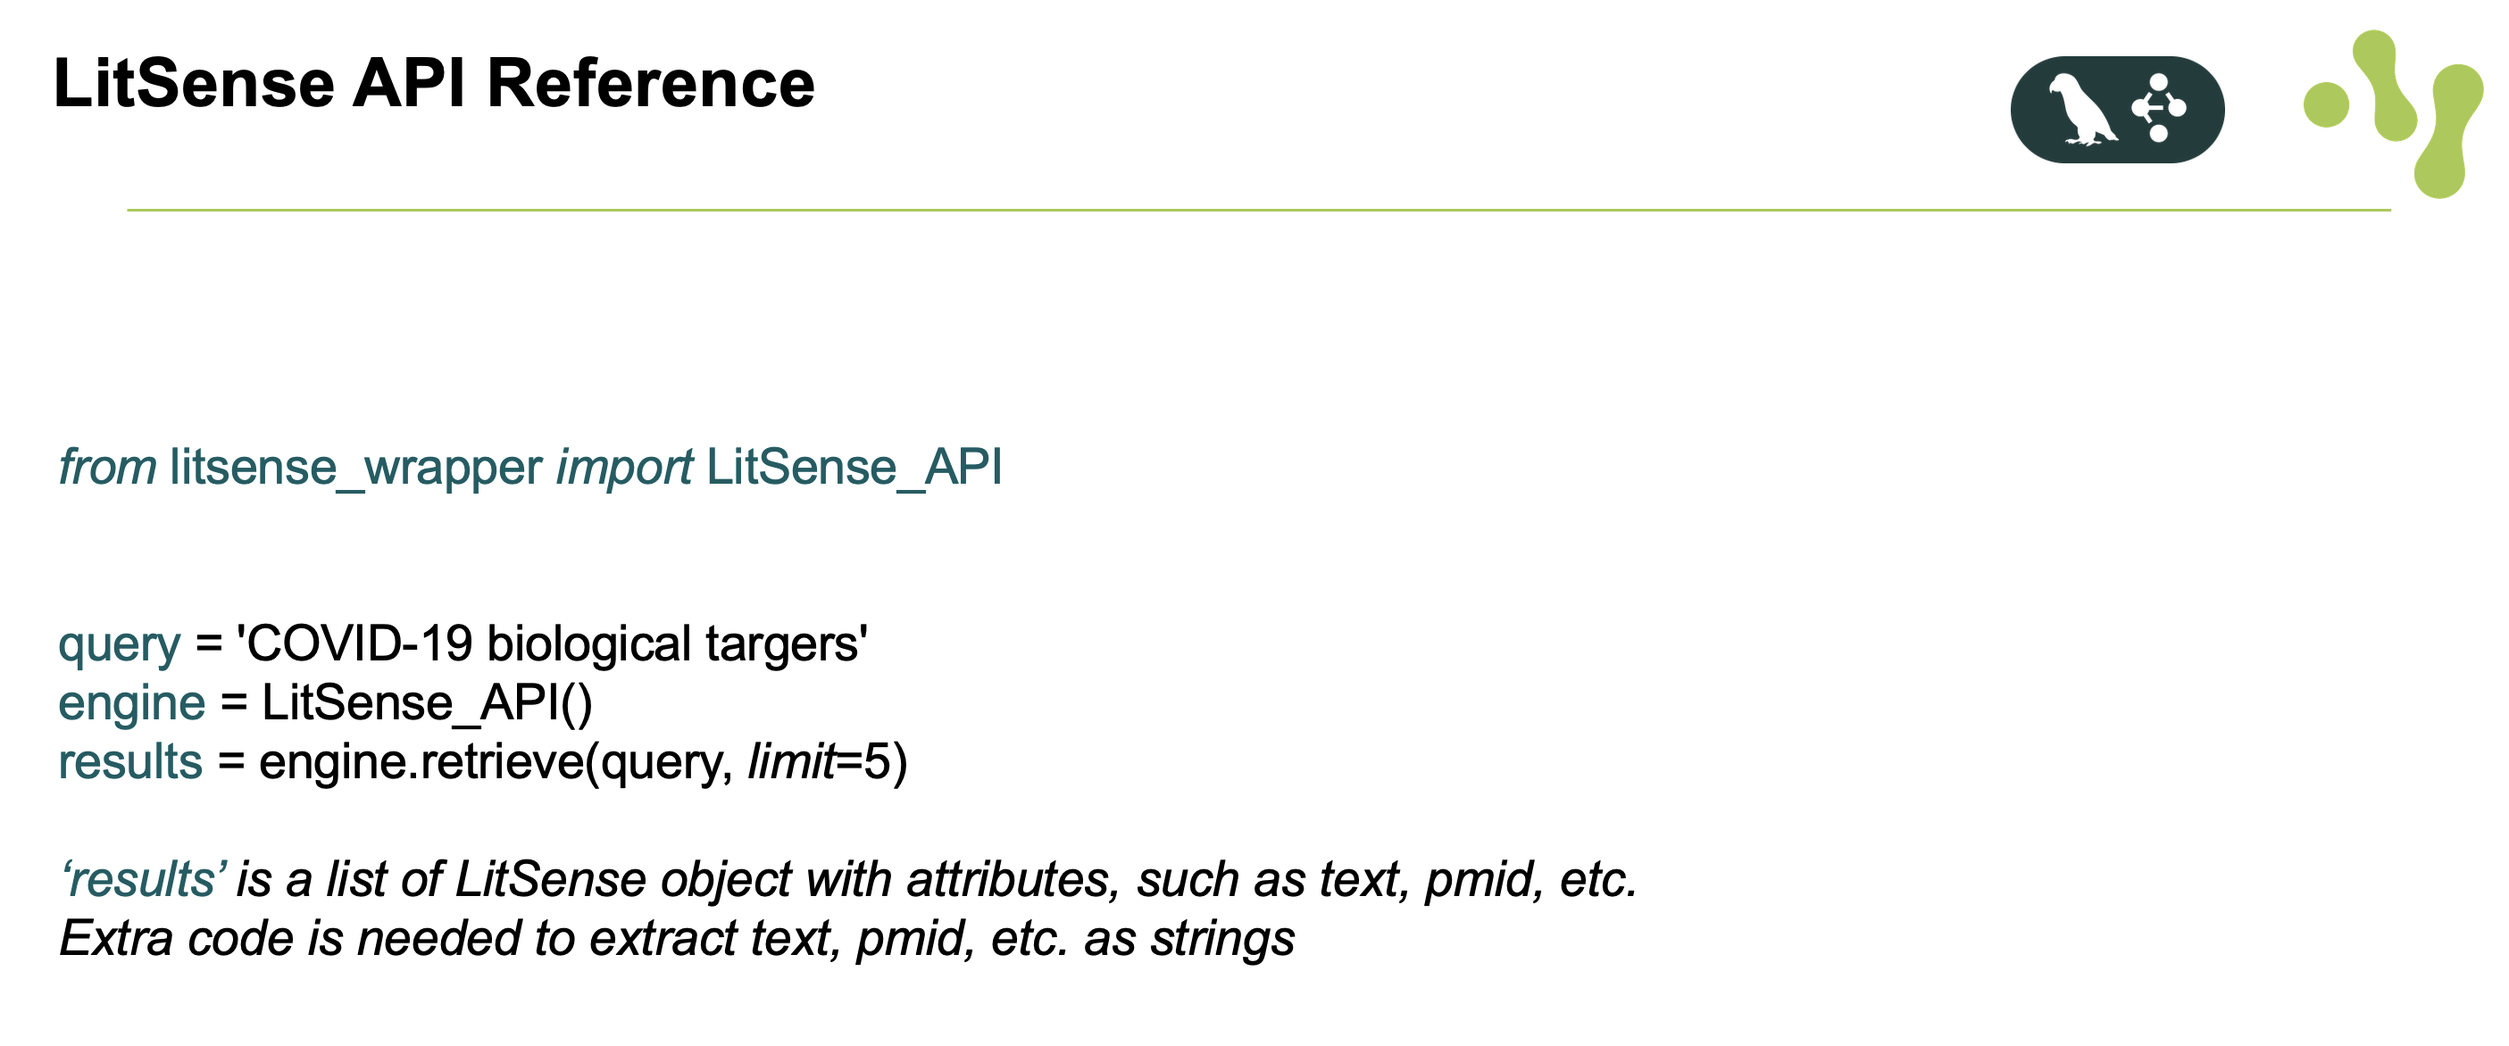
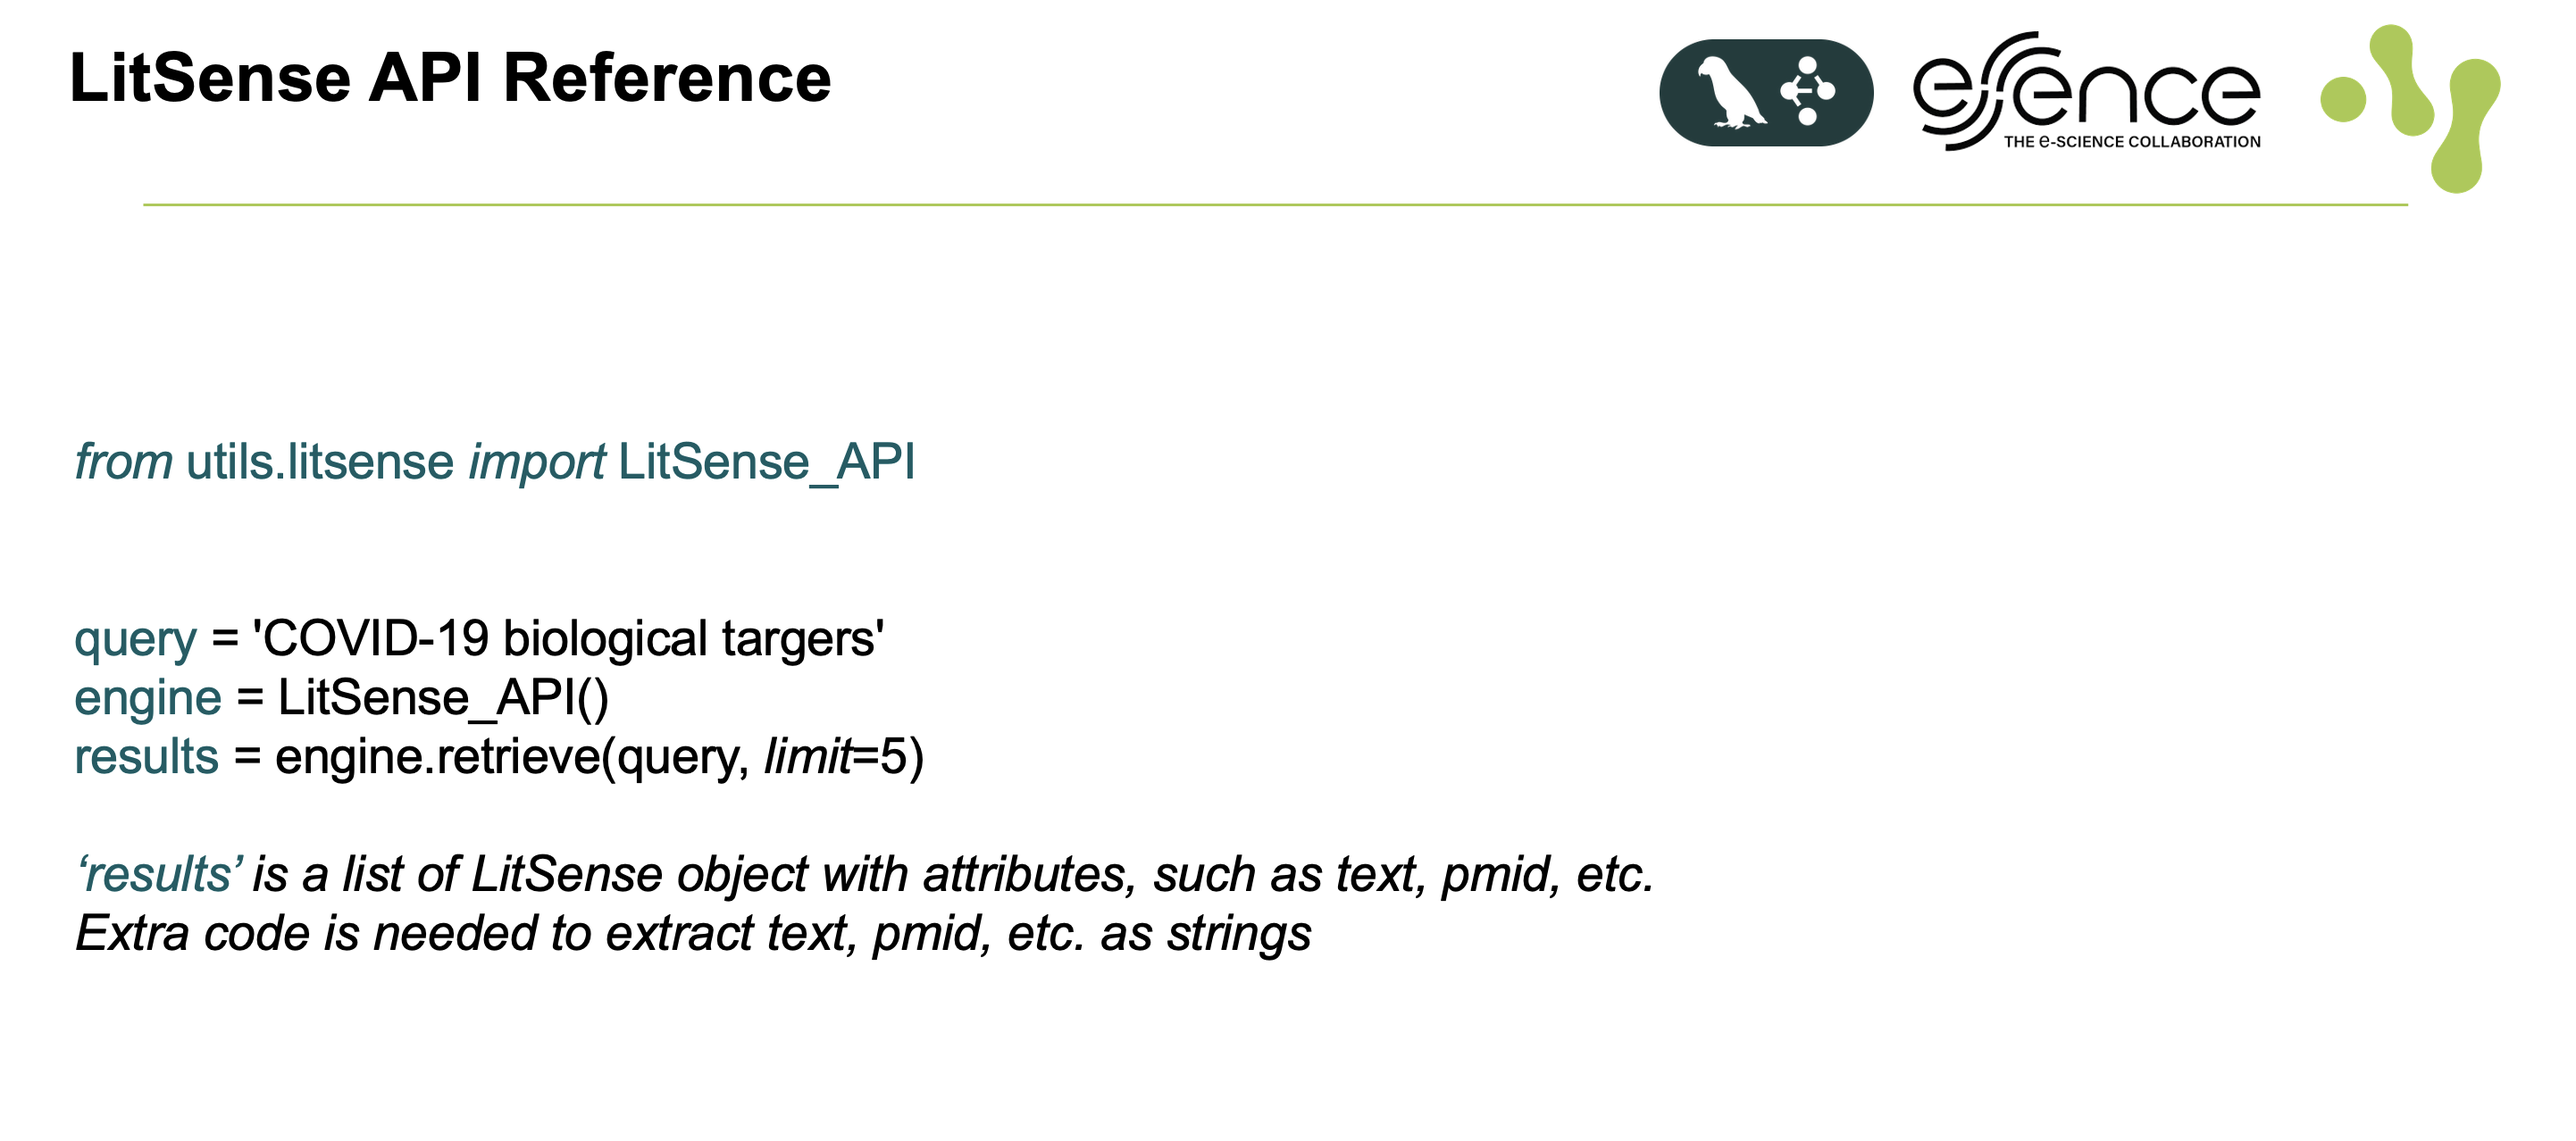
update excercise

diff --git a/Section_1_LangGraph/utils/litsense.py b/Section_1_LangGraph/utils/litsense.py
@@ -1,0 +1,110 @@
+import math
+import requests
+from dataclasses import dataclass
+from typing import Optional
+
+@dataclass
+class LitSenseObject:
+    """Dataclass for a single result from the LitSense API."""
+    text: str
+    score: float
+    annotations: list[str]
+    pmid: int
+    pmcid: str
+    section: str
+
+
+class LitSense_API:
+    """Python wrapper for the LitSense API."""
+    def __init__(
+        self,
+        base_url="https://www.ncbi.nlm.nih.gov/research/litsense2-api/api/",
+    ):
+        self.base_url = base_url
+
+
+    def retrieve(
+        self,
+        query_str: str,
+        rerank: bool = False,
+        limit: int = 10,
+        min_score: Optional[float] = None,
+        mode: str = 'passages'
+    ) -> list[LitSenseObject]:
+        """Retrieve results from the NCBI LitSense2 API for passages or sentences.
+
+        This method sends a GET request to the LitSense2 API and returns a list
+        of `LitSenseObject` instances parsed from the JSON response. Optional
+        client-side filtering by `min_score` can be applied after the API call.
+
+        Args:
+            query_str: The search query string. Must be a non-empty string.
+            rerank: Whether to let the service re-rank results. Defaults to True.
+            limit: Maximum number of results to return. Must be >= 1. Defaults to 10.
+            min_score: Optional minimum score threshold in [0.0, 1.0]. If provided,
+                results with scores below this value are filtered out.
+            mode: Which endpoint to query: 'passages' (default) or 'sentences'.
+
+        Returns:
+            A list of `LitSenseObject` items representing the API results.
+
+        Raises:
+            TypeError: If any argument has an invalid type.
+            ValueError: If any argument fails validation or the API response is malformed.
+            requests.HTTPError: If the HTTP response status indicates an error.
+        """
+
+        # Input validation layer 
+        if not isinstance(query_str, str):
+            raise TypeError("query_str must be a string")
+        if not query_str.strip():
+            raise ValueError("query_str cannot be empty")
+
+        if not isinstance(rerank, bool):
+            raise TypeError("rerank must be a bool")
+
+        if not isinstance(limit, int):
+            raise TypeError("limit must be an integer")
+        if limit < 1:
+            raise ValueError("limit must be >= 1")
+
+        if min_score is not None:
+            if not isinstance(min_score, (int, float)):
+                raise TypeError("min_score must be a float")
+            if math.isnan(float(min_score)) or math.isinf(float(min_score)):
+                raise ValueError("min_score must be a finite number")
+            if not (0.0 <= float(min_score) <= 1.0):
+                raise ValueError("min_score must be between 0.0 and 1.0 inclusive")
+
+        if mode not in {"passages", "sentences"}:
+            raise ValueError("mode must be either 'passages' or 'sentences'")
+        if not isinstance(self.base_url, str) or not self.base_url:
+            raise ValueError("base_url must be a non-empty string")
+        if not self.base_url.endswith('/'):
+            raise ValueError("base_url must end with '/'")
+
+        url = self.base_url + 'sentences/'
+        if mode == 'passages':
+            url = self.base_url + 'passages/'
+        
+        # Main function
+        params = {"query": query_str, "rerank": rerank, "limit": limit}
+        response = requests.get(url, params=params)
+        response.raise_for_status()
+
+        results = response.json()
+        if not isinstance(results, list):
+            raise ValueError("Unexpected API response format: expected a list")
+        try:
+            parsed_results = [LitSenseObject(**result) for result in results]
+        except Exception as exc:
+            raise ValueError(f"Failed to parse API response items: {exc}") from exc
+
+        if min_score:
+            parsed_results = [
+                result
+                for result in parsed_results
+                if result.score >= min_score
+            ]
+
+        return parsed_results
